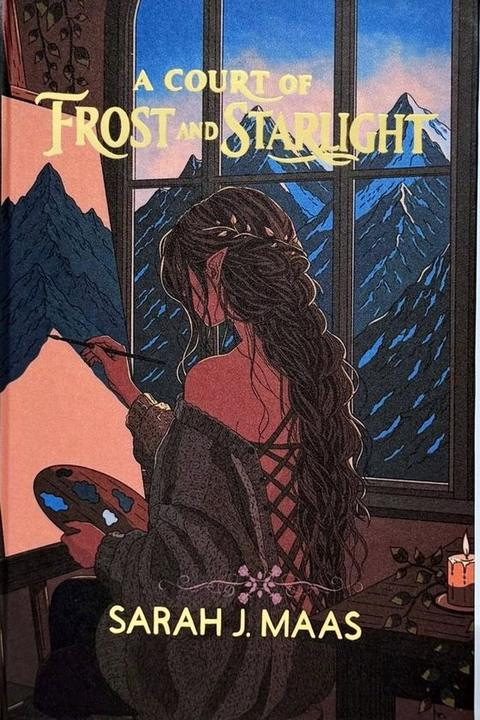
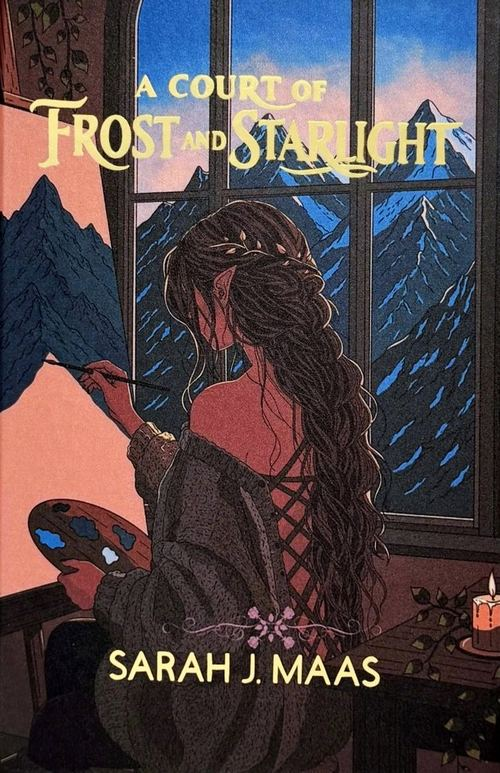
Black Friday hero: books only, faster cuts, 30% line clear of the card
Card flips through the five covers only, 0.35s each, larger with a white
edge; it no longer overlaps the 30% OFF line. Heavier poster typeface.

Claude-Session: https://claude.ai/code/session_01JNj2Jd2gzuyuunZ7xqFpFC

diff --git a/black-friday.html b/black-friday.html
@@ -8,8 +8,8 @@
 <meta name="description" content="Black Friday at Gold Foil Books: 30% off the ACOTAR Book Set and the full artwork collection until Monday 30 November. Preview.">
 <link rel="preconnect" href="https://fonts.googleapis.com">
 <link rel="preconnect" href="https://fonts.gstatic.com" crossorigin>
-<link rel="stylesheet" href="https://fonts.googleapis.com/css2?family=Cinzel+Decorative:wght@400;700&family=Lato:wght@300;400;700;900&family=Cinzel:wght@400;500&display=swap">
-<link rel="stylesheet" href="css/site.6.css">
+<link rel="stylesheet" href="https://fonts.googleapis.com/css2?family=Cinzel+Decorative:wght@400;700&family=Lato:wght@300;400;700;900&family=Gloock&display=swap">
+<link rel="stylesheet" href="css/site.7.css">
 </head>
 <body>
 <p class="bar-top bar-top--bf">Black Friday: 30% off sets and all artwork. Ends 30 Nov.</p>
@@ -24,8 +24,8 @@
 <main>
 <section class="bf">
   <h1 class="bf-word" aria-label="Black Friday"><span>Black</span><span>Friday</span></h1>
-  <div class="bf-card" data-flip='["assets/flip/cover-acotar.jpg", "assets/flip/art-the-hunt.jpg", "assets/flip/art-spring-court-manor.jpg", "assets/flip/cover-acomaf.jpg", "assets/flip/art-the-cabin.jpg", "assets/flip/art-starfall-in-velaris.jpg", "assets/flip/cover-acowar.jpg", "assets/flip/art-the-ships-arriving.jpg", "assets/flip/art-the-three-sisters.jpg", "assets/flip/cover-acofas.jpg", "assets/flip/art-the-estate.jpg", "assets/flip/art-the-painting.jpg", "assets/flip/cover-acosf.jpg", "assets/flip/art-the-stairs.jpg", "assets/flip/art-the-training.jpg"]' role="img" aria-label="The five handbound covers and the artwork drawn for them, shown one after another.">
-    <img class="on" src="assets/flip/cover-acotar.jpg" width="480" height="720" fetchpriority="high" alt="">
+  <div class="bf-card" data-flip='["assets/flip/cover-acotar.jpg", "assets/flip/cover-acomaf.jpg", "assets/flip/cover-acowar.jpg", "assets/flip/cover-acofas.jpg", "assets/flip/cover-acosf.jpg"]' role="img" aria-label="The five handbound covers, shown one after another.">
+    <img class="on" src="assets/flip/cover-acotar.jpg" width="500" height="773" fetchpriority="high" alt="">
   </div>
   <p class="bf-off"><b>30%</b> off</p>
   <p class="bf-what"><span>The ACOTAR Book Set</span> <span><i aria-hidden="true">+</i>all 20 artworks</span></p>
@@ -160,6 +160,6 @@
     <p class="fine">&copy; 2026 Gold Foil Books &middot; Wollongong, Australia. Independently created fan-made rebinds. Not affiliated with, endorsed by, sponsored by or associated with Sarah J. Maas, the publisher, or any copyright holder. Site by <a href="https://theserviceedit.com">The Service Edit</a>.<br>Version 2 preview. Add to cart and any menu link without a preview page open the live store at goldfoilbooks.com.au.</p>
   </div>
 </footer>
-<script src="js/site.6.js"></script>
+<script src="js/site.7.js"></script>
 </body>
 </html>

diff --git a/css/site.7.css b/css/site.7.css
@@ -12,7 +12,7 @@
   --panel:#FFFDFA;
   --serif:"Cinzel Decorative","Trajan Pro",Georgia,serif;
   --sans:"Lato","Helvetica Neue",Arial,sans-serif;
-  --poster:"Cinzel","Trajan Pro",Georgia,serif;
+  --poster:"Gloock","Didot","Bodoni 72",Georgia,serif;
   --gut:20px;--max:1200px;
   color-scheme:light;
 }
@@ -163,10 +163,10 @@ section{padding-block:40px}
 .btn s{font-weight:400;opacity:.72;font-size:.84em;margin-right:.3em}
 .price s{font-weight:400;color:var(--soft);font-size:.8em;margin-right:4px}
 .tag-sale{display:inline-block;background:var(--terra);color:var(--char);font:700 12px/1 var(--sans);letter-spacing:.08em;text-transform:uppercase;padding:6px 9px;border-radius:2px}
-.bf{--fs:clamp(4.6rem,min(24.5vw,19vh),15.5rem);--off:clamp(3.1rem,min(15.5vw,10vh),6.6rem);position:relative;text-align:center;padding:10px var(--gut) 30px;overflow:hidden}
-.bf-word{display:grid;font:400 var(--fs)/.84 var(--poster);letter-spacing:-.015em;text-transform:uppercase;color:var(--char);font-kerning:normal}
+.bf{--fs:clamp(4.6rem,min(26vw,19vh),15.5rem);--off:clamp(3.1rem,min(15.5vw,10vh),6.6rem);position:relative;text-align:center;padding:10px var(--gut) 30px;overflow:hidden}
+.bf-word{display:grid;font:400 var(--fs)/.86 var(--poster);letter-spacing:-.02em;text-transform:uppercase;color:var(--char);font-kerning:normal}
 /* one card in front of the lettering, cutting from cover to artwork to cover, as on a flip-through */
-.bf-card{position:relative;z-index:1;width:min(47vw,30vh,300px);aspect-ratio:2/3;margin:calc(var(--fs)*-.36) auto calc(var(--off)*-.28);background:var(--char);box-shadow:0 22px 44px -20px rgba(59,49,43,.7)}
+.bf-card{position:relative;z-index:1;width:min(52vw,24vh,300px);aspect-ratio:.647;margin:calc(var(--fs)*-.4) auto 14px;background:var(--char);outline:5px solid #fff;box-shadow:0 26px 50px -18px rgba(59,49,43,.75)}
 .bf-card img{position:absolute;inset:0;width:100%;height:100%;object-fit:cover;opacity:0}
 .bf-card img.on{opacity:1}
 .bf-off{position:relative;font:300 var(--off)/1 var(--sans);letter-spacing:-.035em;text-transform:uppercase}
@@ -231,8 +231,8 @@ section{padding-block:40px}
 
 @media (min-width:900px){
   :root{--gut:40px}
-  .bf{--fs:clamp(4.6rem,min(24.5vw,17vh),15.5rem);--off:clamp(3.1rem,9vh,6.6rem)}
-  .bf-card{width:min(27vh,300px)}
+  .bf{--fs:clamp(4.6rem,min(26vw,17vh),15.5rem);--off:clamp(3.1rem,9vh,6.6rem)}
+  .bf-card{width:min(24vh,300px);outline-width:6px}
   .bf{padding-bottom:64px}
   .bf-what{font-size:13.5px;letter-spacing:.2em}
   .bf-cta{grid-template-columns:1fr 1fr;max-width:780px}

diff --git a/index.html b/index.html
@@ -8,8 +8,8 @@
 <meta name="description" content="Handbound editions of the A Court of Thorns and Roses series with original hand-drawn artwork. Version 2 preview.">
 <link rel="preconnect" href="https://fonts.googleapis.com">
 <link rel="preconnect" href="https://fonts.gstatic.com" crossorigin>
-<link rel="stylesheet" href="https://fonts.googleapis.com/css2?family=Cinzel+Decorative:wght@400;700&family=Lato:wght@300;400;700;900&family=Cinzel:wght@400;500&display=swap">
-<link rel="stylesheet" href="css/site.6.css">
+<link rel="stylesheet" href="https://fonts.googleapis.com/css2?family=Cinzel+Decorative:wght@400;700&family=Lato:wght@300;400;700;900&family=Gloock&display=swap">
+<link rel="stylesheet" href="css/site.7.css">
 </head>
 <body>
 <p class="bar-top">Free shipping in Australia | Worldwide shipping available.</p>
@@ -93,6 +93,6 @@
     <p class="fine">&copy; 2026 Gold Foil Books &middot; Wollongong, Australia. Independently created fan-made rebinds. Not affiliated with, endorsed by, sponsored by or associated with Sarah J. Maas, the publisher, or any copyright holder. Site by <a href="https://theserviceedit.com">The Service Edit</a>.<br>Version 2 preview. Add to cart and any menu link without a preview page open the live store at goldfoilbooks.com.au.</p>
   </div>
 </footer>
-<script src="js/site.6.js"></script>
+<script src="js/site.7.js"></script>
 </body>
 </html>

diff --git a/artwork-collection.html b/artwork-collection.html
@@ -8,8 +8,8 @@
 <meta name="description" content="All 20 pieces of original artwork as digital downloads, 30% off for Black Friday. Preview.">
 <link rel="preconnect" href="https://fonts.googleapis.com">
 <link rel="preconnect" href="https://fonts.gstatic.com" crossorigin>
-<link rel="stylesheet" href="https://fonts.googleapis.com/css2?family=Cinzel+Decorative:wght@400;700&family=Lato:wght@300;400;700;900&family=Cinzel:wght@400;500&display=swap">
-<link rel="stylesheet" href="css/site.6.css">
+<link rel="stylesheet" href="https://fonts.googleapis.com/css2?family=Cinzel+Decorative:wght@400;700&family=Lato:wght@300;400;700;900&family=Gloock&display=swap">
+<link rel="stylesheet" href="css/site.7.css">
 </head>
 <body>
 <p class="bar-top bar-top--bf">Black Friday: 30% off sets and all artwork. Ends 30 Nov.</p>
@@ -108,6 +108,6 @@
     <p class="fine">&copy; 2026 Gold Foil Books &middot; Wollongong, Australia. Independently created fan-made rebinds. Not affiliated with, endorsed by, sponsored by or associated with Sarah J. Maas, the publisher, or any copyright holder. Site by <a href="https://theserviceedit.com">The Service Edit</a>.<br>Version 2 preview. Add to cart and any menu link without a preview page open the live store at goldfoilbooks.com.au.</p>
   </div>
 </footer>
-<script src="js/site.6.js"></script>
+<script src="js/site.7.js"></script>
 </body>
 </html>

diff --git a/black-friday-set.html b/black-friday-set.html
@@ -8,8 +8,8 @@
 <meta name="description" content="All five handbound editions as one set, in two sizes. Version 2 preview.">
 <link rel="preconnect" href="https://fonts.googleapis.com">
 <link rel="preconnect" href="https://fonts.gstatic.com" crossorigin>
-<link rel="stylesheet" href="https://fonts.googleapis.com/css2?family=Cinzel+Decorative:wght@400;700&family=Lato:wght@300;400;700;900&family=Cinzel:wght@400;500&display=swap">
-<link rel="stylesheet" href="css/site.6.css">
+<link rel="stylesheet" href="https://fonts.googleapis.com/css2?family=Cinzel+Decorative:wght@400;700&family=Lato:wght@300;400;700;900&family=Gloock&display=swap">
+<link rel="stylesheet" href="css/site.7.css">
 </head>
 <body>
 <p class="bar-top bar-top--bf">Black Friday: 30% off sets and all artwork. Ends 30 Nov.</p>
@@ -131,6 +131,6 @@
     <p class="fine">&copy; 2026 Gold Foil Books &middot; Wollongong, Australia. Independently created fan-made rebinds. Not affiliated with, endorsed by, sponsored by or associated with Sarah J. Maas, the publisher, or any copyright holder. Site by <a href="https://theserviceedit.com">The Service Edit</a>.<br>Version 2 preview. Add to cart and any menu link without a preview page open the live store at goldfoilbooks.com.au.</p>
   </div>
 </footer>
-<script src="js/site.6.js"></script>
+<script src="js/site.7.js"></script>
 </body>
 </html>

diff --git a/book-one.html b/book-one.html
@@ -8,8 +8,8 @@
 <meta name="description" content="Book one, handbound with five original illustrations. Version 2 preview.">
 <link rel="preconnect" href="https://fonts.googleapis.com">
 <link rel="preconnect" href="https://fonts.gstatic.com" crossorigin>
-<link rel="stylesheet" href="https://fonts.googleapis.com/css2?family=Cinzel+Decorative:wght@400;700&family=Lato:wght@300;400;700;900&family=Cinzel:wght@400;500&display=swap">
-<link rel="stylesheet" href="css/site.6.css">
+<link rel="stylesheet" href="https://fonts.googleapis.com/css2?family=Cinzel+Decorative:wght@400;700&family=Lato:wght@300;400;700;900&family=Gloock&display=swap">
+<link rel="stylesheet" href="css/site.7.css">
 </head>
 <body>
 <p class="bar-top">Free shipping in Australia | Worldwide shipping available.</p>
@@ -149,6 +149,6 @@
     <p class="fine">&copy; 2026 Gold Foil Books &middot; Wollongong, Australia. Independently created fan-made rebinds. Not affiliated with, endorsed by, sponsored by or associated with Sarah J. Maas, the publisher, or any copyright holder. Site by <a href="https://theserviceedit.com">The Service Edit</a>.<br>Version 2 preview. Add to cart and any menu link without a preview page open the live store at goldfoilbooks.com.au.</p>
   </div>
 </footer>
-<script src="js/site.6.js"></script>
+<script src="js/site.7.js"></script>
 </body>
 </html>

diff --git a/set.html b/set.html
@@ -8,8 +8,8 @@
 <meta name="description" content="All five handbound editions as one set, in two sizes. Version 2 preview.">
 <link rel="preconnect" href="https://fonts.googleapis.com">
 <link rel="preconnect" href="https://fonts.gstatic.com" crossorigin>
-<link rel="stylesheet" href="https://fonts.googleapis.com/css2?family=Cinzel+Decorative:wght@400;700&family=Lato:wght@300;400;700;900&family=Cinzel:wght@400;500&display=swap">
-<link rel="stylesheet" href="css/site.6.css">
+<link rel="stylesheet" href="https://fonts.googleapis.com/css2?family=Cinzel+Decorative:wght@400;700&family=Lato:wght@300;400;700;900&family=Gloock&display=swap">
+<link rel="stylesheet" href="css/site.7.css">
 </head>
 <body>
 <p class="bar-top">Free shipping in Australia | Worldwide shipping available.</p>
@@ -131,6 +131,6 @@
     <p class="fine">&copy; 2026 Gold Foil Books &middot; Wollongong, Australia. Independently created fan-made rebinds. Not affiliated with, endorsed by, sponsored by or associated with Sarah J. Maas, the publisher, or any copyright holder. Site by <a href="https://theserviceedit.com">The Service Edit</a>.<br>Version 2 preview. Add to cart and any menu link without a preview page open the live store at goldfoilbooks.com.au.</p>
   </div>
 </footer>
-<script src="js/site.6.js"></script>
+<script src="js/site.7.js"></script>
 </body>
 </html>

diff --git a/art-the-hunt.html b/art-the-hunt.html
@@ -8,8 +8,8 @@
 <meta name="description" content="The Hunt, original artwork as a digital download. Version 2 preview.">
 <link rel="preconnect" href="https://fonts.googleapis.com">
 <link rel="preconnect" href="https://fonts.gstatic.com" crossorigin>
-<link rel="stylesheet" href="https://fonts.googleapis.com/css2?family=Cinzel+Decorative:wght@400;700&family=Lato:wght@300;400;700;900&family=Cinzel:wght@400;500&display=swap">
-<link rel="stylesheet" href="css/site.6.css">
+<link rel="stylesheet" href="https://fonts.googleapis.com/css2?family=Cinzel+Decorative:wght@400;700&family=Lato:wght@300;400;700;900&family=Gloock&display=swap">
+<link rel="stylesheet" href="css/site.7.css">
 </head>
 <body>
 <p class="bar-top">Free shipping in Australia | Worldwide shipping available.</p>
@@ -107,6 +107,6 @@
     <p class="fine">&copy; 2026 Gold Foil Books &middot; Wollongong, Australia. Independently created fan-made rebinds. Not affiliated with, endorsed by, sponsored by or associated with Sarah J. Maas, the publisher, or any copyright holder. Site by <a href="https://theserviceedit.com">The Service Edit</a>.<br>Version 2 preview. Add to cart and any menu link without a preview page open the live store at goldfoilbooks.com.au.</p>
   </div>
 </footer>
-<script src="js/site.6.js"></script>
+<script src="js/site.7.js"></script>
 </body>
 </html>

diff --git a/js/site.7.js b/js/site.7.js
@@ -177,7 +177,7 @@
       if (!frames[next].complete || !frames[next].naturalWidth) return;   // wait for the next picture rather than flash an empty card
       frames[at].classList.remove("on"); frames[next].classList.add("on"); at = next;
     };
-    var run = function (on) { clearInterval(timer); timer = on ? setInterval(step, 800) : null; };
+    var run = function (on) { clearInterval(timer); timer = on ? setInterval(step, 350) : null; };
     if ("IntersectionObserver" in window) new IntersectionObserver(function (e) { run(e[0].isIntersecting); }).observe(card); else run(true);
   });
 
